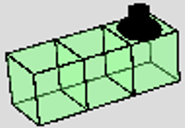
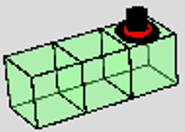
started new smoke skin

Changed region(s): [[0.0, 0.0, 1.0, 1.0]]

diff --git a/sketch.js b/sketch.js
@@ -130,6 +130,8 @@ let lineSkin;
 let isotopeSkin;
 let eyesSkin;
 let topHatSkin;
+let trainSkin;
+let theSmoke = [];
 
 //variables for 2D array
 let cols;
@@ -139,7 +141,8 @@ let bare;
 let snakeEyes;
 let lines;
 let iso;
-let topHat
+let topHat;
+let train;
 
 function preload(){
   //preloads text font
@@ -150,6 +153,7 @@ function preload(){
   iso = loadImage('assets/iso.PNG');
   snakeEyes = loadImage('assets/snake eyes.PNG');
   topHat = loadImage('assets/top hat.PNG');
+  train = loadImage('assets/top hat.PNG');
 
   eyesSkin = {
     name: 'Eyes',
@@ -190,12 +194,21 @@ function preload(){
     active: 'no',
     picture: topHat,
   };
+
+  trainSkin = {
+    name: 'Train',
+    cost: 1000,
+    bought: 'no',
+    active: 'no',
+    picture: train,
+  };
   
   skins.push(noSkin);
   skins.push(lineSkin);
   skins.push(isotopeSkin);
   skins.push(eyesSkin);
   skins.push(topHatSkin);
+  skins.push(trainSkin);
 
   if(getItem("High Scores 5")===null){
     highScores5 = [];
@@ -1647,6 +1660,11 @@ function applySkin(head){
         translate(0,-35,0);
         cylinder(10,20,30,30);
         pop();
+        push();
+        translate(0,-27.5,0);
+        fill(255,0,0);
+        cylinder(12,5,30,30,false,false);
+        pop();
       }else{
         push();
         translate(0,0,25);
@@ -1657,11 +1675,86 @@ function applySkin(head){
         rotateX(1.4);
         cylinder(10,20,30,30);
         pop();
+        push();
+        translate(0,0,27.5);
+        rotateX(1.4);
+        fill(255,0,0);
+        cylinder(12,5,30,30,false,false);
+        pop();
+      }
+    }
+  }else if(skin==="Train"){
+    box(50);
+    if(head){
+      if(secondPosition[0]===position[0]-50||secondPosition[0]===position[0]+50||secondPosition[2]===position[2]-50||secondPosition[2]===position[2]+50){
+        push();
+        fill(200);
+        translate(0,-30,0);
+        cylinder(10,10,30,30);
+        pop();
+        push();
+        fill(0);
+        translate(0,-37.5,0);
+        cylinder(12,5,30,30);
+        translate(0,-7.5,0);
+        let mySmoke = new Smoke();
+        theSmoke.push(mySmoke);
+        pop();
+      }else{
+        push();
+        fill(200);
+        translate(0,0,30);
+        rotateX(1.4);
+        cylinder(10,10,30,30);
+        pop();
+        push();
+        fill(0);
+        translate(0,0,37.5);
+        rotateX(1.4);
+        cylinder(12,5,30,30);
+        rotateX(-1.4);
+        translate(0,0,7.5)
+        let mySmoke = new Smoke();
+        theSmoke.push(mySmoke);
+        pop();
       }
     }
   }else{
     //no skin
     box(50);
+  }
+}
+
+class Smoke {
+  constructor() {
+    this.x = 0;
+    this.y = 0;
+    this.z = 0;
+    this.radius = 5;
+    this.alpha = 255;
+  }
+
+  display() {
+    fill(50,this.alpha);
+    translate(0,this.y,0);
+    push();
+    for(var i=0; i<5; i++){
+      rotate(PI/i);
+      tranlate(2.5);
+      sphere(this.radius);
+      tranlate(-2.5);
+    }
+    pop();
+  }
+
+  update() {
+    this.y+=0.1;
+    this.radius-=0.1;
+    this.alpha-=1;
+  }
+
+  isDone() {
+    return this.alpha <= 0;
   }
 }
 
@@ -3054,6 +3147,26 @@ let p2Points = new p5(( sketch ) => {
     sketch.fill(0,0,200);
     if(gameMode==="Two Player"){
       sketch.text(pointsP2,0,10);
+    }
+  };
+});
+
+let smokeUpdater = new p5(( sketch ) => {
+  //creates canvas
+  sketch.setup = () => {
+    sketch.createCanvas(0,0);
+  };
+
+  //writes word
+  sketch.draw = () => {
+    for (let i = theSmoke.length-1; i>=0; i--) {
+      theSmoke[i].update();
+      if (theSmoke[i].isDone()) {
+        theSmoke.splice(i, 1);
+      }
+      else {
+        theSmoke[i].display();
+      }
     }
   };
 });

diff --git a/css/fullscreenp5.css b/css/fullscreenp5.css
@@ -59,3 +59,6 @@ body, html {
     top: 5%;
     left: 70%;
 }
+#defaultCanvas9 {
+    visibility: "hidden";
+}
